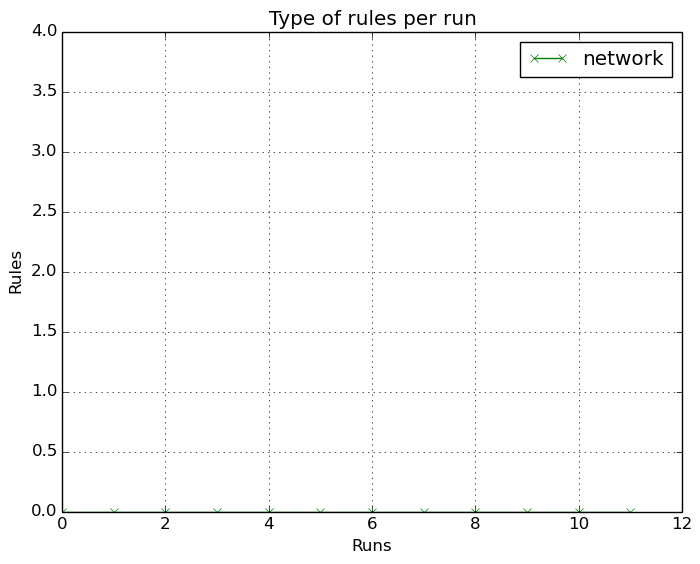
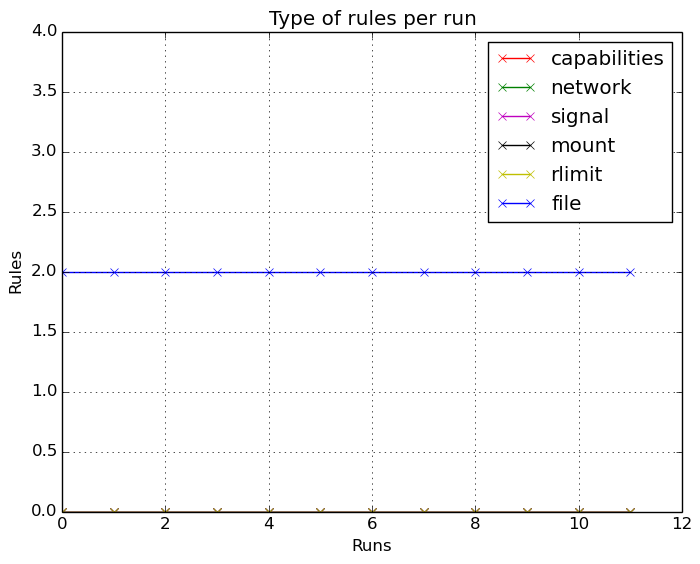
Plotting

Changed region(s): [[0.69, 0.0603, 0.96, 0.422], [0.09, 0.4521, 0.9, 0.5124]]

diff --git a/Parser/metrics/plot_type_rules.py b/Parser/metrics/plot_type_rules.py
@@ -36,7 +36,7 @@ with open(net,'r') as infile:
         network.append(line)
 
 signal = []
-with open(net,'r') as infile:
+with open(sgn,'r') as infile:
     data = infile.readlines()
     for line in data:
         line = line.strip('\n')
@@ -91,14 +91,13 @@ for x in range(int(num_of_runs)):
 
 fig = plt.figure()
 ax = fig.add_subplot(111)
-
-#ax.plot(x_Axis, capabilities, label="capabilities", color="r", marker='x')
+ax.plot(x_Axis, capabilities, label="capabilities", color="r", marker='x')
 ax.plot(x_Axis, network, label="network", color="g", marker='x')
-"""ax.plot(x_Axis, signal, label="signal", color="m", marker='x')
+ax.plot(x_Axis, signal, label="signal", color="m", marker='x')
 ax.plot(x_Axis, mount, label="mount", color="k", marker='x')
 ax.plot(x_Axis, rlimit, label="rlimit", color="y", marker='x')
 ax.plot(x_Axis, file_rules, label="file", color="b", marker='x')
-"""
+
 ax.legend(loc=0)
 ax.grid()
 ax.set_xlabel("Runs")
